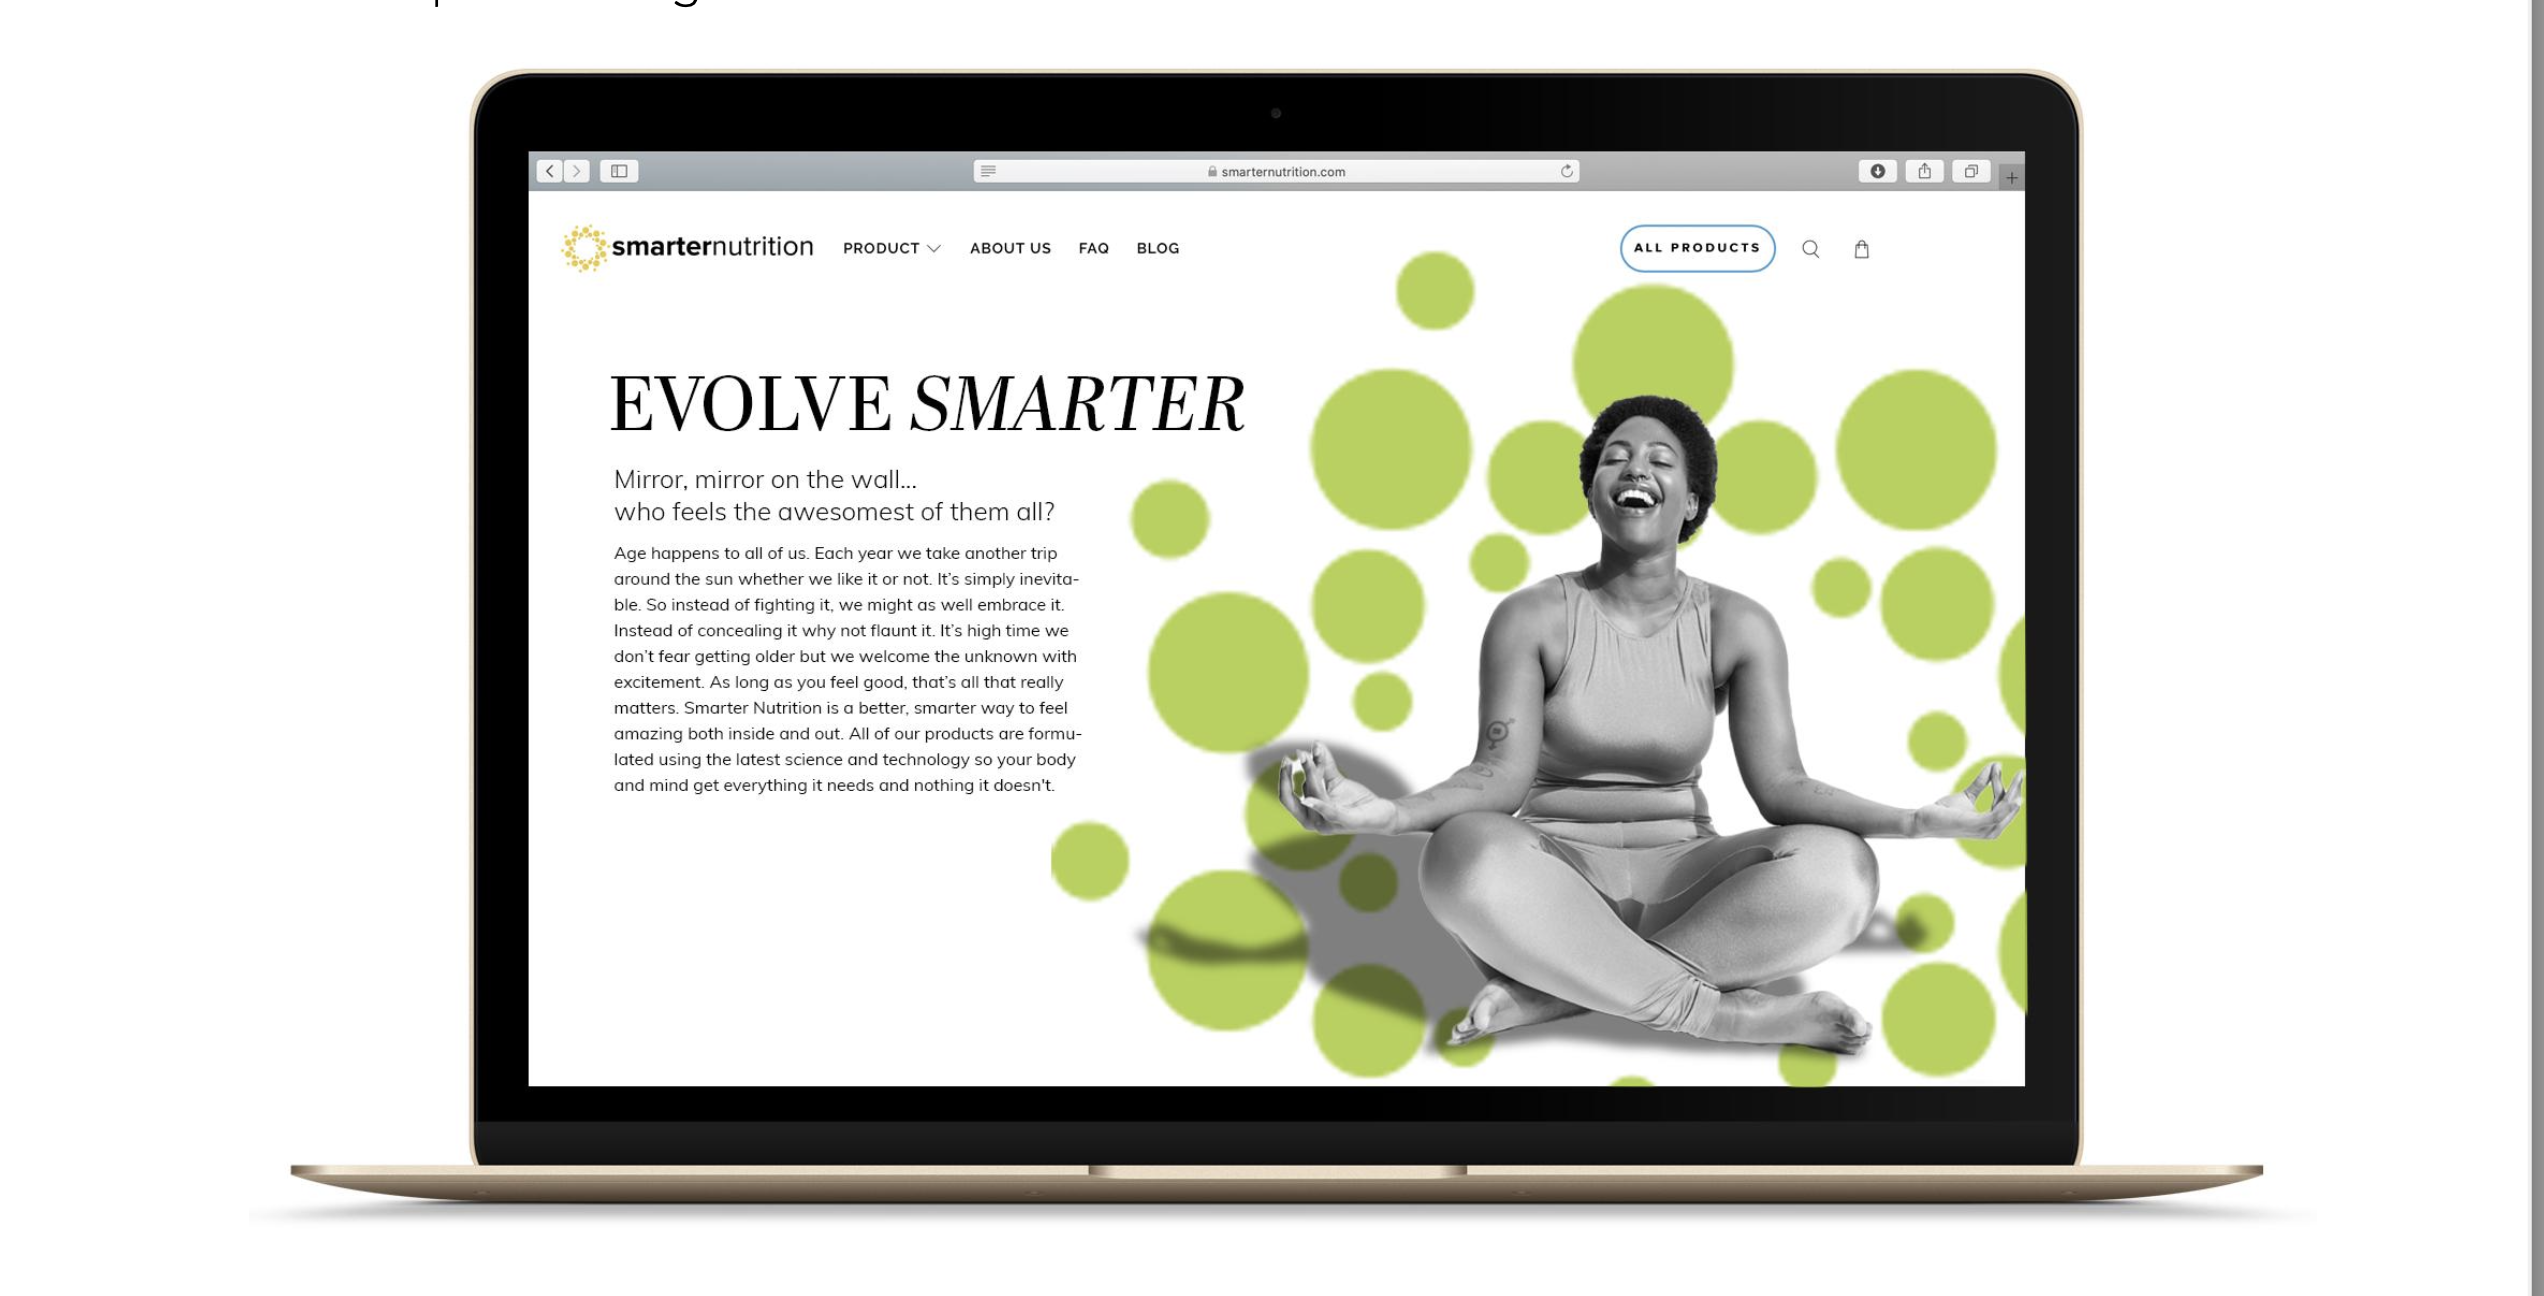
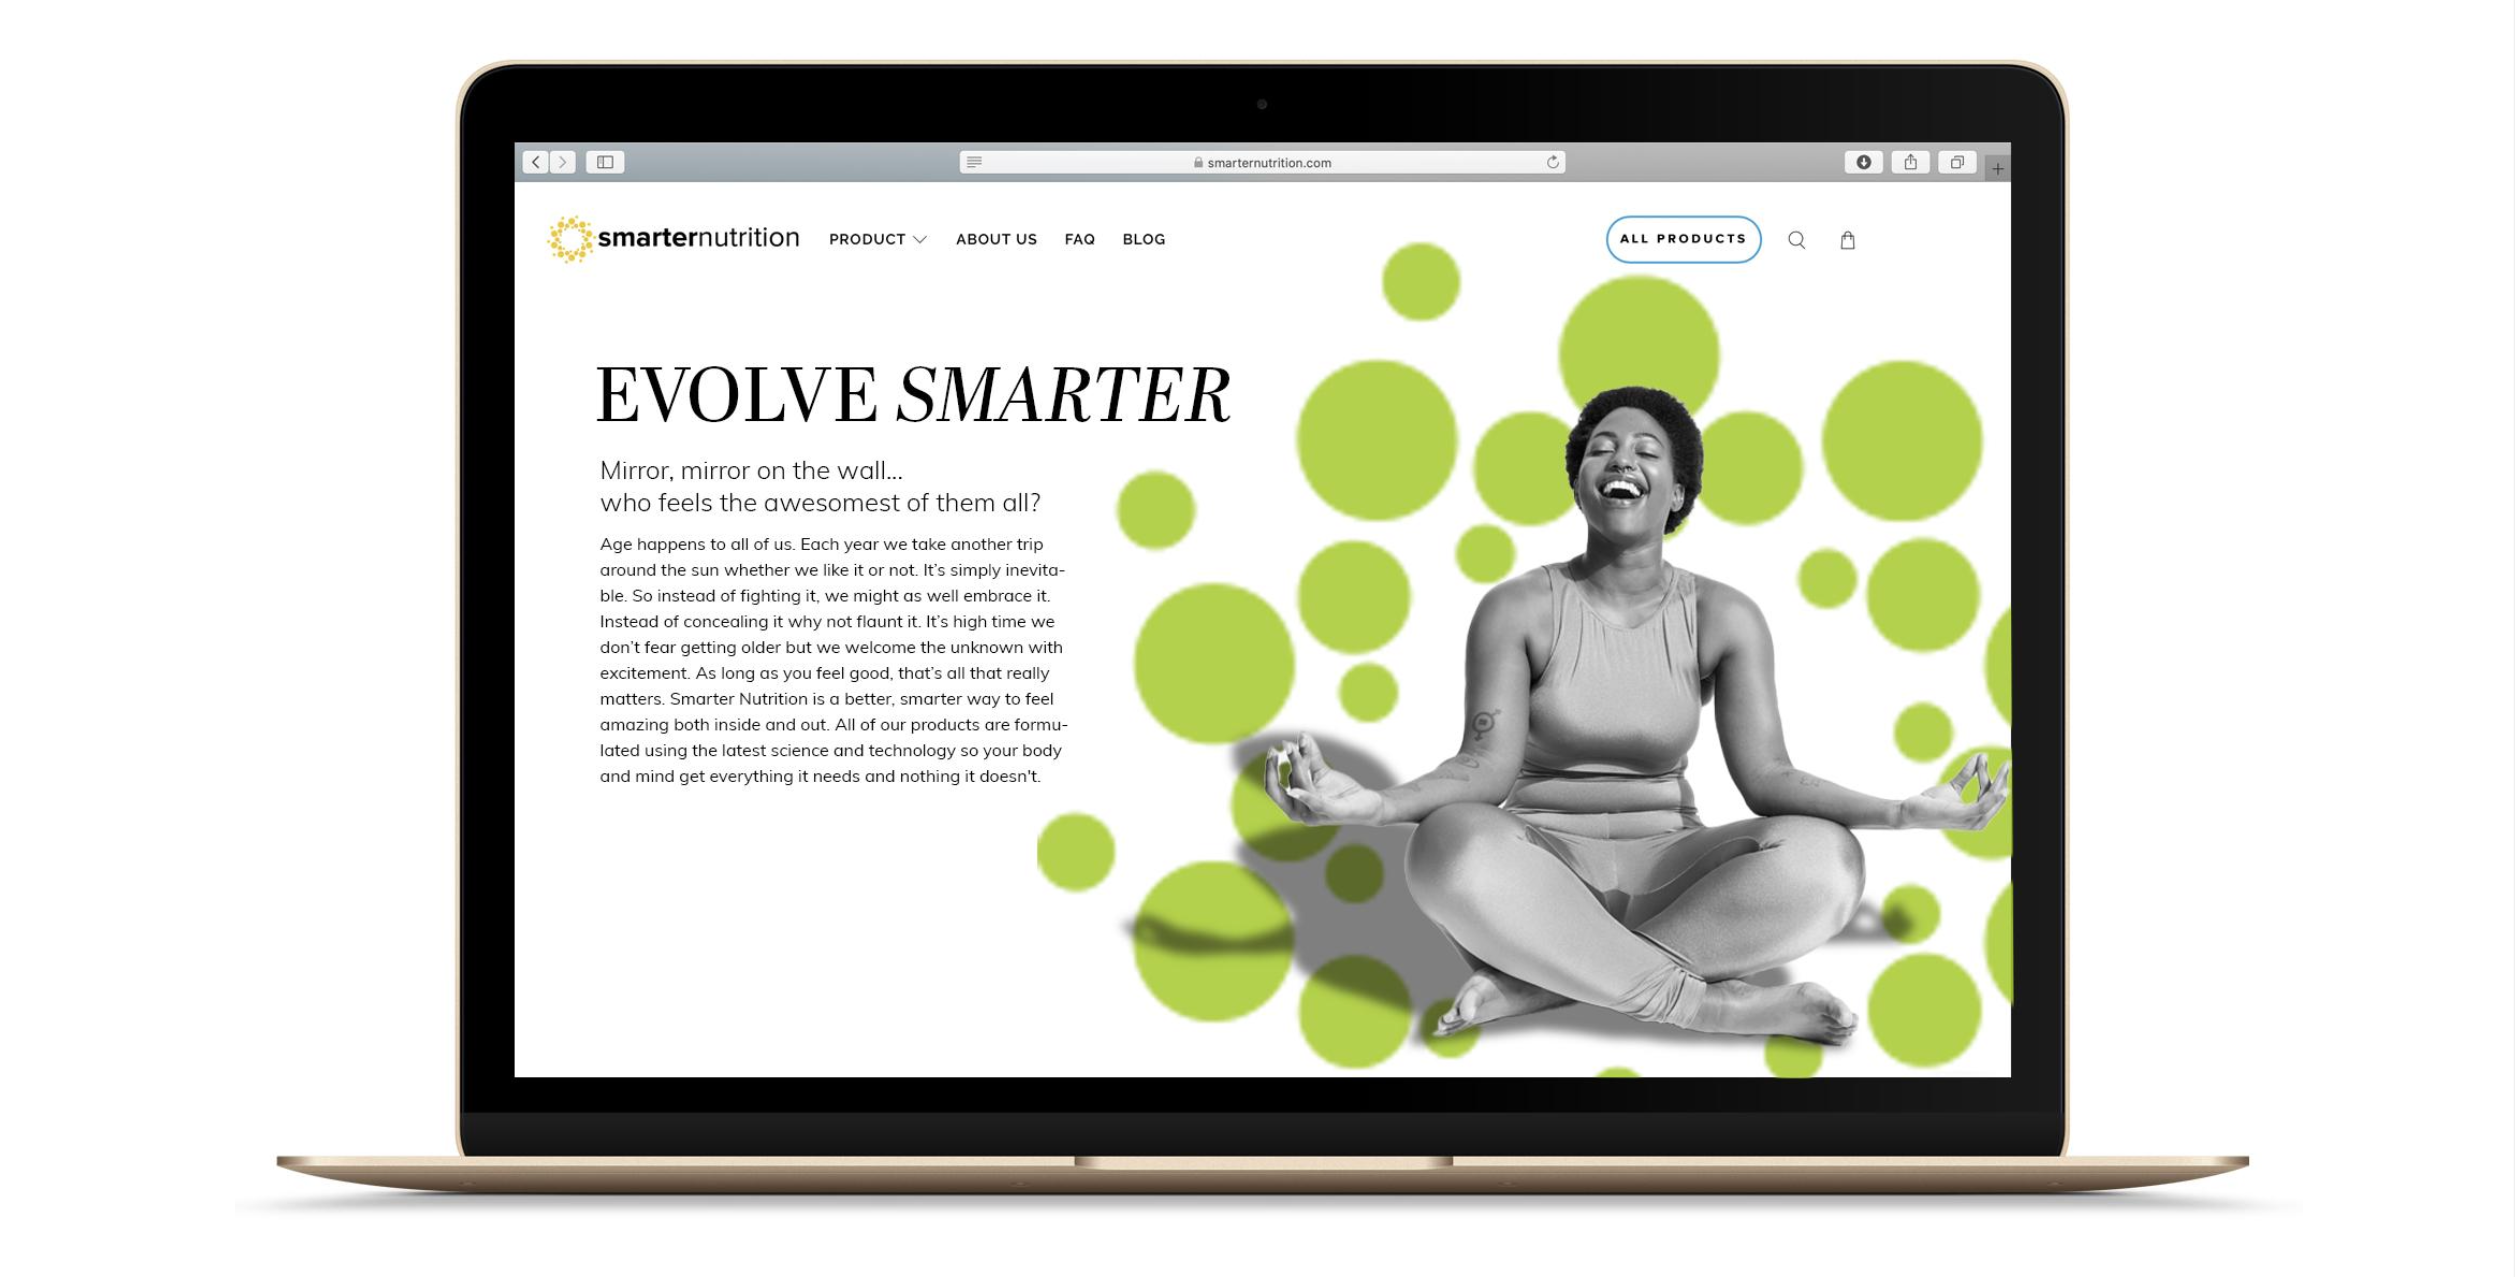
update campaign images

diff --git a/content/portfolio/smarter_nutrition.md b/content/portfolio/smarter_nutrition.md
@@ -1,6 +1,6 @@
 ---
 title: "Smarter Nutrition"
-image: "images/thumbnails/th_smarter_nutrition.png"
+image: "images/thumbnails/th_smarter_nutrition.jpg"
 client: "Smarter Nutrition"
 agency: "Ann is Awesome / MW Creative Ranch"
 weight: 10
@@ -13,10 +13,8 @@ The following executions are people talking about life after 40. The good, the b
 
 {{<img-responsive src="/images/portfolio/smarter_nutrition/SN1.png">}}
 
-{{<img-responsive src="/images/portfolio/smarter_nutrition/SN2.png">}}
-
-{{<img-responsive src="/images/portfolio/smarter_nutrition/SN3.png">}}
+{{<img-responsive src="/images/portfolio/smarter_nutrition/SN6.png">}}
 
 {{<img-responsive src="/images/portfolio/smarter_nutrition/SN4.png">}}
 
-{{<img-responsive src="/images/portfolio/smarter_nutrition/SN5.png">}}
+{{<img-responsive src="/images/portfolio/smarter_nutrition/SN7.png">}}
